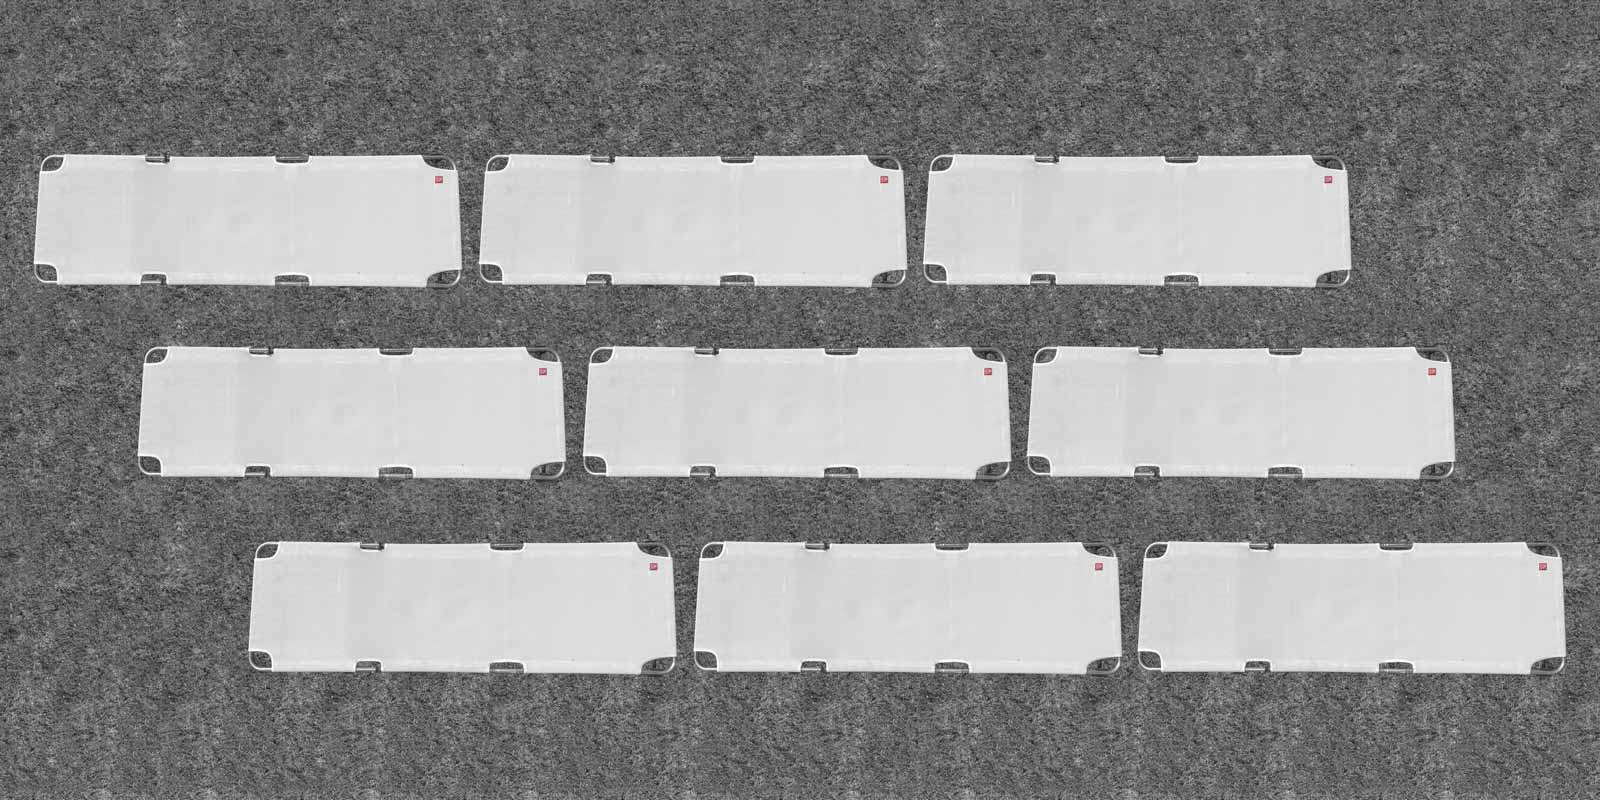
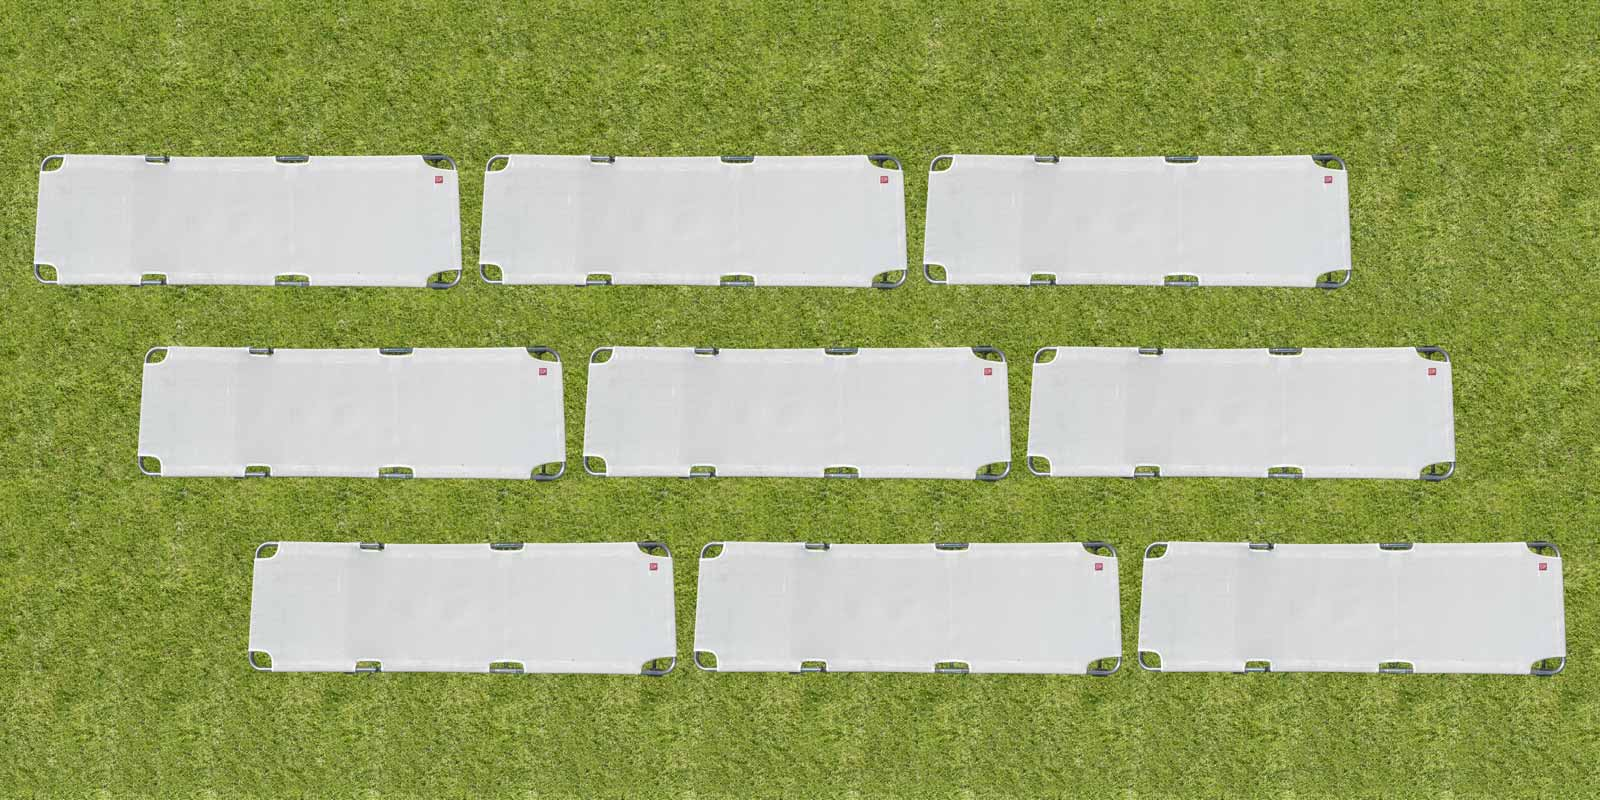
1.0.3

diff --git a/src/index.html b/src/index.html
@@ -87,7 +87,7 @@
     <div class="w3-col l3 m6 w3-margin-bottom">
       <div class="w3-display-container">
         <div class="w3-display-topleft w3-black w3-padding">TDD</div>
-        <img src="./images/180506-0084-1.jpg" alt="House" style="width:99%">
+        <img src="./images/180506-0084-2.jpg" alt="House" style="width:99%">
       </div>
     </div>
     <div class="w3-col l3 m6 w3-margin-bottom">
